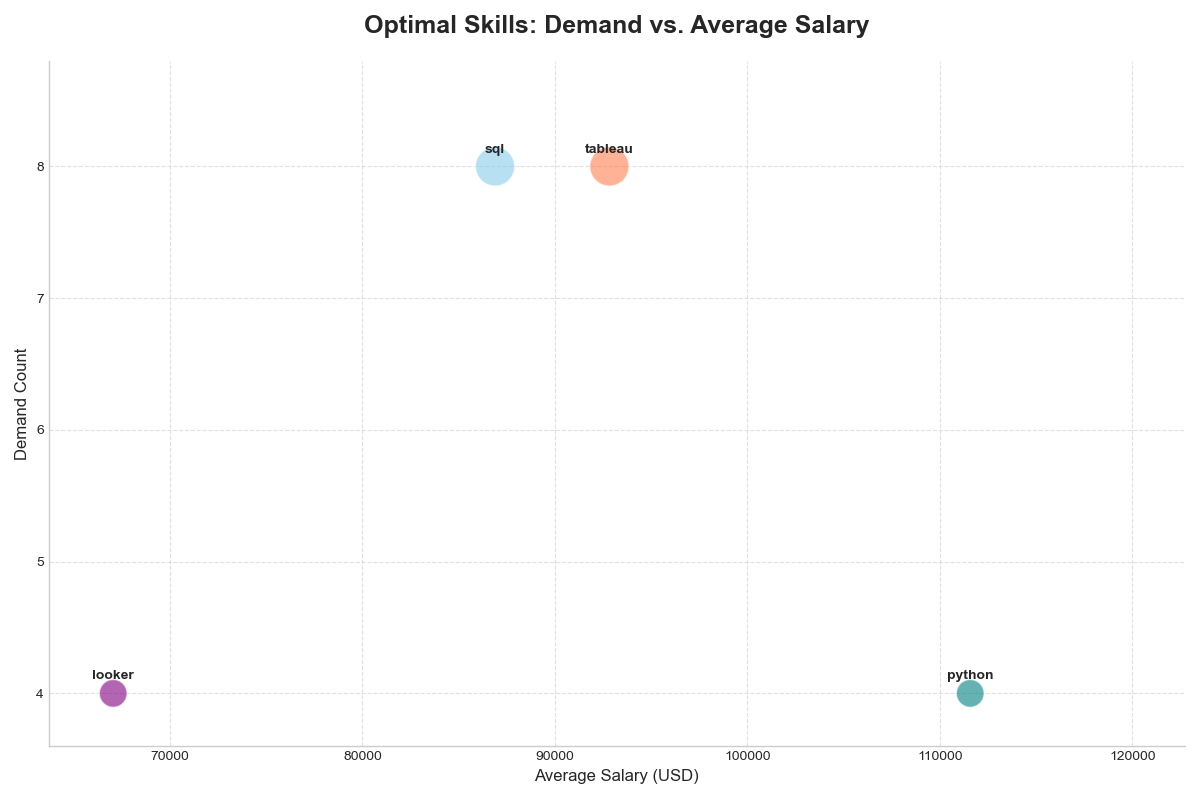
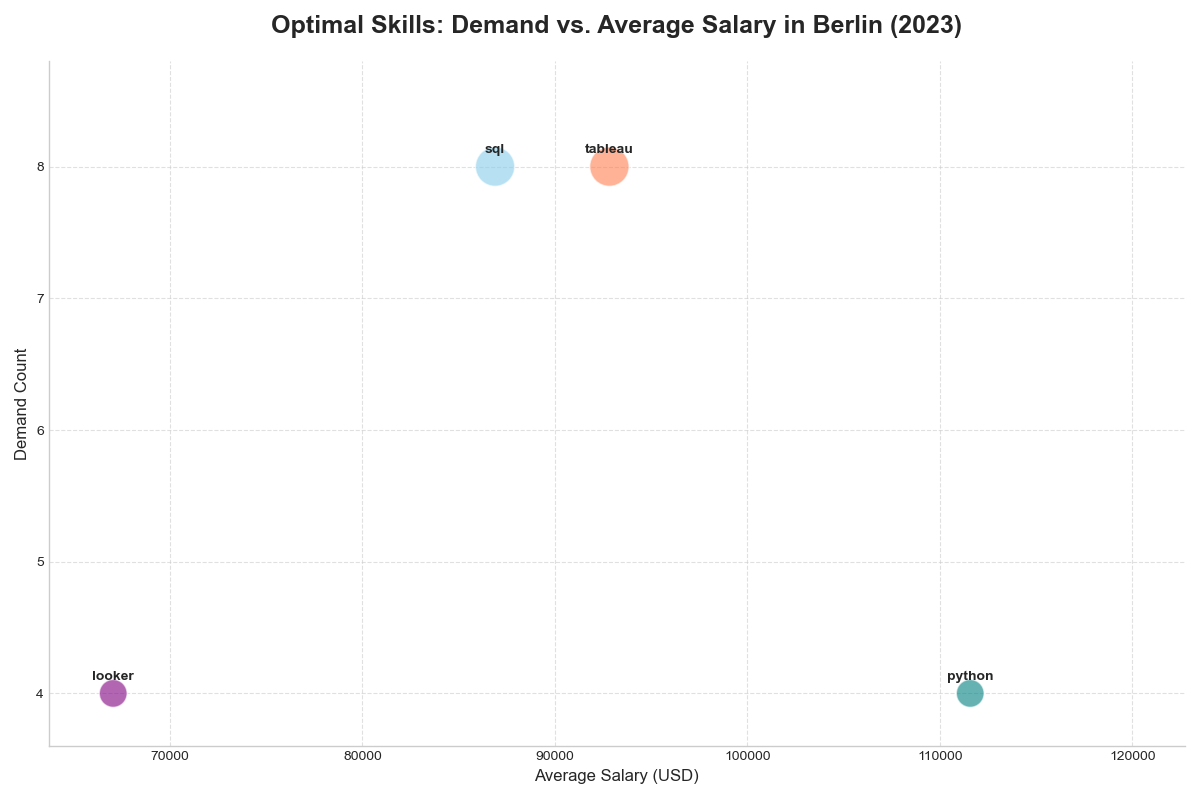
Update readme

Changed region(s): [[0.2158, 0.0, 0.8017, 0.0625]]

diff --git a/assets/graphs.py b/assets/graphs.py
@@ -28,7 +28,7 @@ try:
                 bbox=dict(boxstyle="round,pad=0.3", fc='white', ec='none', alpha=0.7))
 
     # Customize the chart
-    ax1.set_title('Top Highest-Paying Data Analyst Jobs', fontsize=18, fontweight='bold', pad=20)
+    ax1.set_title('Top Highest-Paying Data Analyst Jobs in Berlin (2023)', fontsize=18, fontweight='bold', pad=20)
     ax1.set_xlabel('Average Salary (USD)', fontsize=12)
     ax1.set_ylabel('Job Title', fontsize=12)
     ax1.invert_yaxis()  # To display the highest salary at the top
@@ -57,7 +57,7 @@ try:
         ax2.text(bar.get_width(), bar.get_y() + bar.get_height()/2, 
                 f'{int(bar.get_width())}', va='center', ha='left', fontsize=10, color='black',
                 bbox=dict(boxstyle="round,pad=0.3", fc='white', ec='none', alpha=0.7))
-    ax2.set_title('Skills Required for Top-Paying Jobs', fontsize=18, fontweight='bold', pad=20)
+    ax2.set_title('Skills Required for Top-Paying Jobs in Berlin (2023)', fontsize=18, fontweight='bold', pad=20)
     ax2.set_xlabel('Number of Mentions', fontsize=12)
     ax2.set_ylabel('Skills', fontsize=12)
     ax2.invert_yaxis()
@@ -81,7 +81,7 @@ try:
         ax3.text(bar.get_x() + bar.get_width()/2, yval, 
                 f'{int(yval)}', ha='center', va='bottom', fontsize=10, color='black',
                 bbox=dict(boxstyle="round,pad=0.3", fc='white', ec='none', alpha=0.7))
-    ax3.set_title('Top 5 Most Demanded Skills', fontsize=18, fontweight='bold', pad=20)
+    ax3.set_title('Top 5 Most Demanded Data Analyst Skills in Berlin (2023)', fontsize=18, fontweight='bold', pad=20)
     ax3.set_xlabel('Skills', fontsize=12)
     ax3.set_ylabel('Demand Count', fontsize=12)
     plt.xticks(rotation=45, ha='right')
@@ -136,7 +136,7 @@ try:
             fontsize=10,
             fontweight='bold'
         )
-    ax5.set_title('Optimal Skills: Demand vs. Average Salary', fontsize=18, fontweight='bold', pad=20)
+    ax5.set_title('Optimal Skills: Demand vs. Average Salary in Berlin (2023)', fontsize=18, fontweight='bold', pad=20)
     ax5.set_xlabel('Average Salary (USD)', fontsize=12)
     ax5.set_ylabel('Demand Count', fontsize=12)
     ax5.set_xlim(df_optimal['avg_salary'].min() * 0.95, df_optimal['avg_salary'].max() * 1.1)

diff --git a/README.md b/README.md
@@ -1,7 +1,7 @@
 SQL Project - Job Analysis
 
 # Introduction
-Dive into the data job market! Focusing on data analyst roles in Berlin, Germany, this project explores top-paying jobs, in-demand skills, and where high demand meets high salary in data analytics.
+Dive into the data job market! Focusing on data analyst roles in Berlin, Germany, in 2023, this project explores top-paying jobs, in-demand skills, and where high demand meets high salary in data analytics.
 
 SQL queries? Check them out here: [project_sql folder](/project_sql/)
 
@@ -103,7 +103,7 @@ I calculated the average salary per skill across job postings with salary data.
 **Insight:** Specialized tools (Power BI, MATLAB, AWS) can boost salaries, while SQL and Tableau remain essential entry requirements.
 
 ![Top 10 Highest-Paying Skills](assets/top_paying_skills.png)
-*A bar chart that illustrates the highest paying skills for data analysts*
+*A bar chart that illustrates the highest paying skills for data analysts in Berlin (2023)*
 
 ### 5. Optimal skills to learn (high dmand + high salary)
 **Query:** [5_optimal_skills.sql](project_sql/5_optimal_skills.sql)
